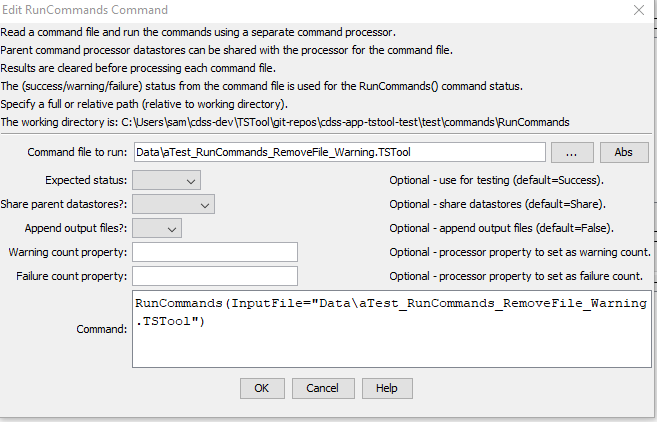
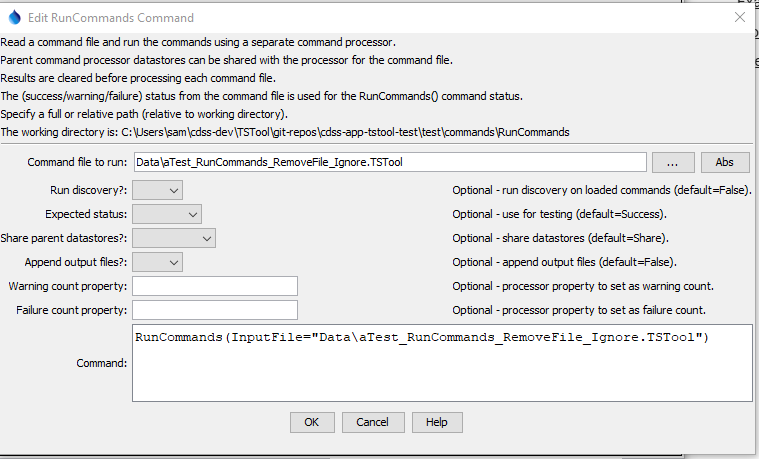
Add RunDiscovery parameter to the RunCommands command, issue #169

diff --git a/mkdocs-project/docs/command-ref/RunCommands/RunCommands.md b/mkdocs-project/docs/command-ref/RunCommands/RunCommands.md
@@ -20,9 +20,12 @@ and is also used extensively for testing, where a test suite consists of running
     relative paths referenced in the command file are relative to this directory.
     This allows a master command file to reside in a different location than the individual command files that are being run.
     The current working directory is reset to that of the command file being run.
+*   Commands that are in a main command file typically run in discovery mode when opened in the user interface,
+    to ensure that information like time series identifiers can be passed to following commands for editing.
+    However, because the commands that `RunCommands` is running cannot be directly edited,
+    there is no need to run discovery mode.
 *   Datastores from the parent command processor are by default passed to the child command processor,
     which allows database connections can be opened once and shared.
-    (Database Datastores are a feature that will be enabled in the future.)
 *   Currently the properties from the parent command file are NOT applied to the
     initial conditions when running the command file.
     Therefore, global properties like input and output period are reset to defaults before running the command file.
@@ -63,7 +66,8 @@ Command Parameters
 
 | **Parameter**&nbsp;&nbsp;&nbsp;&nbsp;&nbsp;&nbsp;&nbsp;&nbsp;&nbsp;&nbsp;&nbsp;&nbsp;&nbsp;&nbsp;&nbsp;&nbsp;&nbsp;&nbsp;&nbsp;&nbsp;&nbsp;&nbsp;&nbsp;&nbsp;&nbsp;&nbsp; | **Description** | **Default**&nbsp;&nbsp;&nbsp;&nbsp;&nbsp;&nbsp;&nbsp;&nbsp;&nbsp;&nbsp; |
 | --------------|-----------------|----------------- |
-| `CommandFile`<br>**required** | The command file to run. A path relative to the master command file can be specified.  Can use `${Property}`. | None - must be specified. |
+| `InputFile`<br>**required** | The command file to run. A path relative to the master command file can be specified.  Can use `${Property}`. | None - must be specified. |
+| `RunDiscovery` | Whether to run commands in `InputdFile` in discovery mode as they are loaded (`True`) or not (`False`).  This parameter is used by software developers. | `False` | 
 | `ExpectedStatus` | Used for testing – indicates the expected status from the command, one of: <ul><li>`Unknown`</li><li>`Success`</li><li>`Warning`</li><li>`Failure`</li></ul><br> If this parameter is NOT used, the command log messages from commands that are run will be appended to the `RunCommands` command log.  However, using this parameter will not append those messages – this is used in automated testing to allow a successful test even when there are warning and failure messages. | `Success` |
 | `ShareDatastores` | Indicate whether datastores in the parent should be shared with the child command processor.  Normally this should be done so that databases can be opened once.  Note that opening datastores in the child command file will not make the datastores available in the parent. | `Share` |
 | `AppendOutputFiles` | Indicate whether output files generated by the command file that is run should be listed in the main TSTool ***Results / Output Files*** (`True`) or not (`False`).  The default is `False` because a large number of output files may be generated. | `False` |

diff --git a/mkdocs-project/docs/appendix-release-notes/release-notes-15.md b/mkdocs-project/docs/appendix-release-notes/release-notes-15.md
@@ -18,6 +18,10 @@ Issues may also be included in other repositories that are TSTool components.
 
 *   ![change](change.png) [15.2.0] Update the [`ProcessRasterGraph`](../command-ref/ProcessRasterGraph/ProcessRasterGraph.md) command:
     +   Add the ability to create an HTML image map so that using the image on a website can include links to other content.
+*   ![change](change.png) [15.2.0] Update the [`RunCommands`](../command-ref/RunCommands/RunCommands.md) command:
+    +   Add the `RunDiscovery` parameter to control whether commands in the command file run discovery when loaded.
+    +   Change the default to not run discovery for the command file because interactive editing of
+        the command file does not occur, will slow execution, and may result in warnings and errors that are irrelevant
 *   ![change](change.png) [15.2.0] Update the [`TextEdit`](../command-ref/TextEdit/TextEdit.md) command:
     +   Add the `ReplaceWithFile` parameter to allow replacing text with text from a file.
 

diff --git a/mkdocs-project/docs/appendix-release-notes/release-notes.md b/mkdocs-project/docs/appendix-release-notes/release-notes.md
@@ -42,6 +42,7 @@ TSTool Version History Summary (most current at top)
 
 |**TSTool Version(s)**&nbsp;&nbsp;&nbsp;&nbsp;&nbsp;&nbsp;&nbsp;&nbsp;&nbsp;&nbsp;&nbsp;&nbsp;&nbsp;&nbsp;&nbsp;&nbsp;&nbsp;&nbsp;&nbsp;&nbsp;|**Summary of Major Changes in Version**|**Release Date**|
 |--|--|--|
+|[15.2.0](release-notes-15.md)|Feature release to improve plugin and data visualization features. | 2025-09-04 |
 |[15.1.0](release-notes-15.md)|Feature release to remove Reclamation HDB features, since there is now a Reclamation HDB plugin. | 2025-04-16 |
 |[15.0.0](release-notes-15.md)|Major release to update from Java 8 to Java 11. Add file, plugin, and TSTool installation managers. | 2025-03-27 |
 |[14.10.0](release-notes-14.md)|Feature release with many enhancements to support advanced workflows. | 2025-02-07 |

diff --git a/mkdocs-project/docs/index.md b/mkdocs-project/docs/index.md
@@ -12,7 +12,7 @@ This documentation is generally referred to as the **"User Documentation"** in c
 *   [About the Open Water Foundation](#about-the-open-water-foundation)
 *   [License](#license)
 *   [Source Repository on GitHub](#source-repository-on-github)
-*   [Release Notes](appendix-release-notes/release-notes.md) - **this documentation has been updated for TSTool version 15.1.0**
+*   [Release Notes](appendix-release-notes/release-notes.md) - **this documentation has been updated for TSTool version 15.2.0**
 
 ----------------
 
